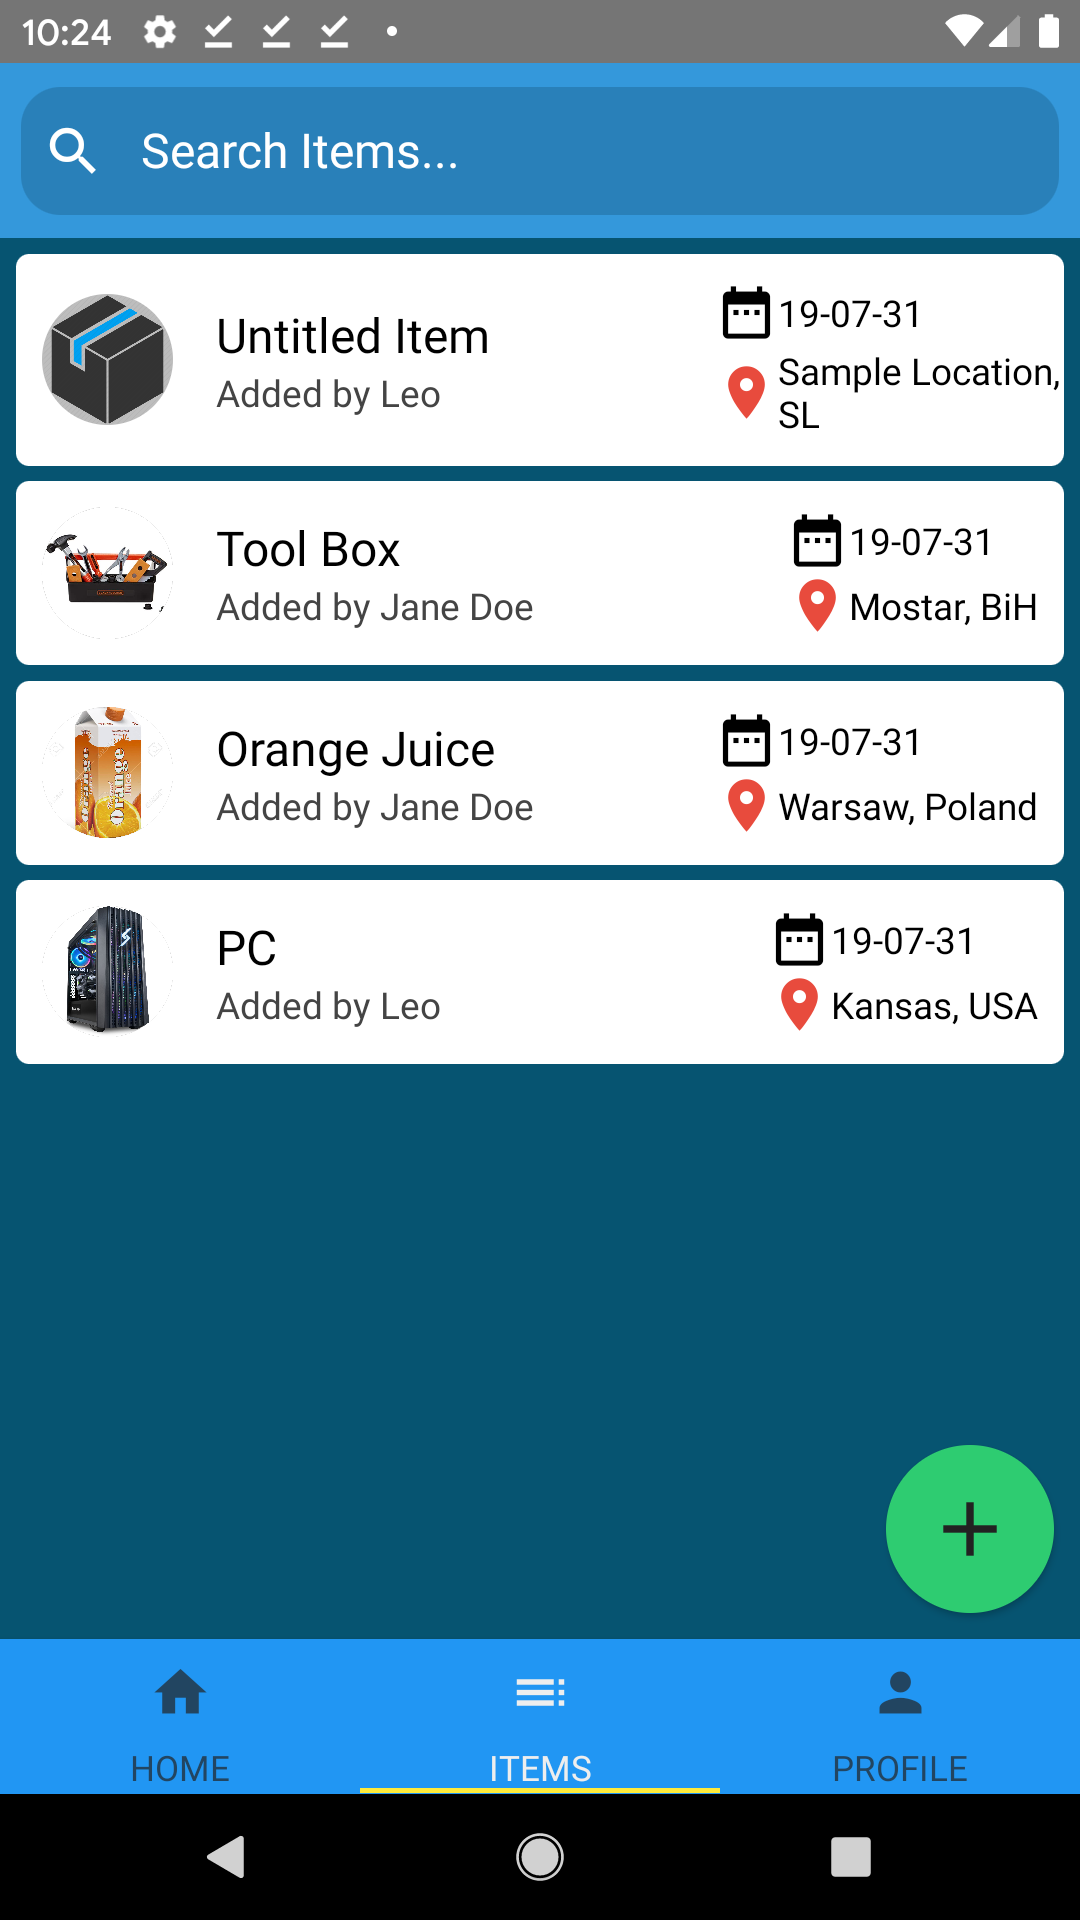
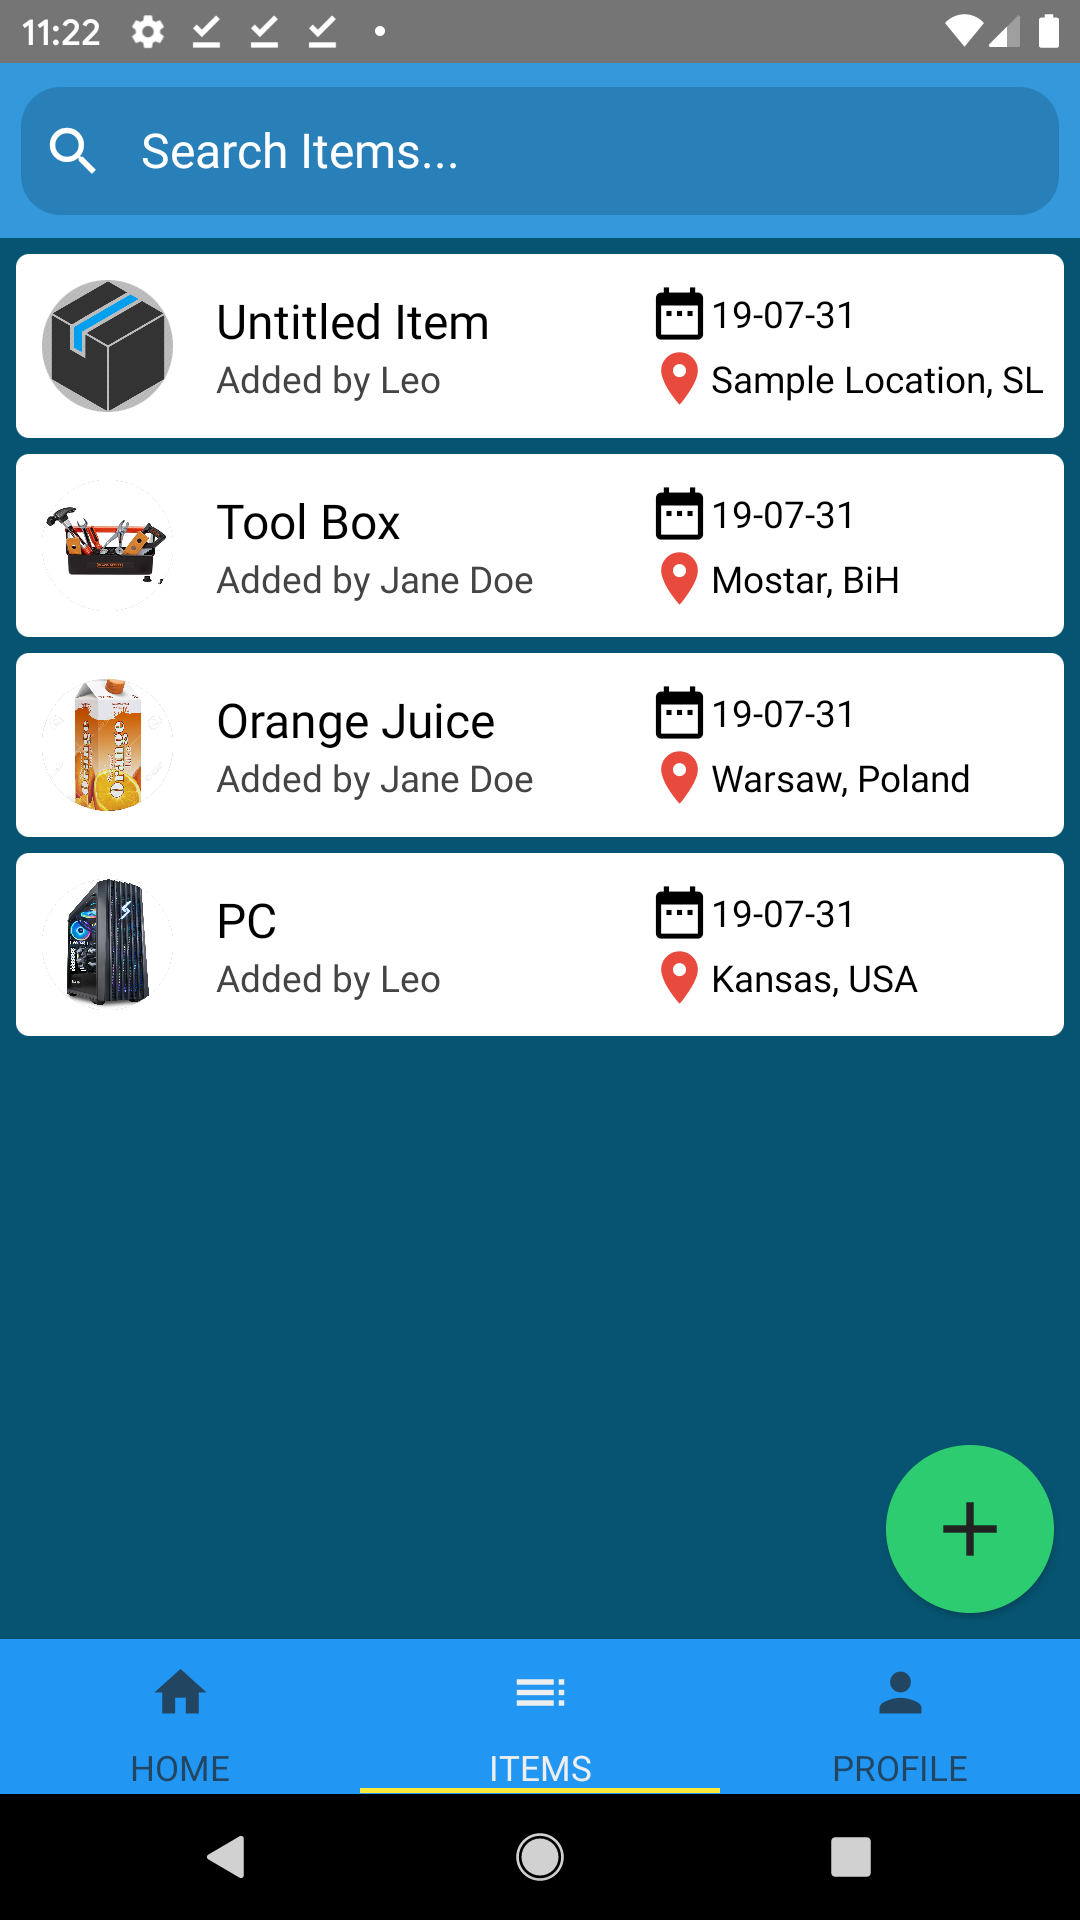
Update List Item Style

diff --git a/src/screens/ItemsScreen.js b/src/screens/ItemsScreen.js
@@ -46,11 +46,12 @@ export default class ItemsScreen extends Component {
         </View>
       }
       rightSubtitle={
-        <View>
-          <View style={{ display: "flex", flexDirection: "row", justifyContent: "flex-start", alignItems: "center" }}><Icon type="material" name="date-range" /><Text>{item.added_on}</Text></View>
-          <View style={{ display: "flex", flexDirection: "row", justifyContent: "flex-start", alignItems: "center" }}><Icon type="material" name="location-on" color="#E84B3D" /><Text>{item.location}</Text></View>
+        <View style={{ display: "flex", flexDirection: "column", alignItems: "flex-start", justifyContent: "center" }}>
+          <View style={{display: "flex", flexDirection: "row", justifyContent: "flex-start", alignItems: "center"}}><Icon type="material" name="date-range" /><Text numberOfLines={1}>{item.added_on}</Text></View>
+          <View style={{display: "flex", flexDirection: "row", justifyContent: "flex-start", alignItems: "center"}}><Icon type="material" name="location-on" color="#E84B3D" /><Text style={{ overflow: "hidden" }}>{item.location}</Text></View>
         </View>
       }
+      rightContentContainerStyle={{ display: "flex", flex: 1, flexDirection: "row", justifyContent: "flex-start" }}
       leftAvatar={{ source: { uri: item.imageURL }, size: "medium" }}
     />
 
